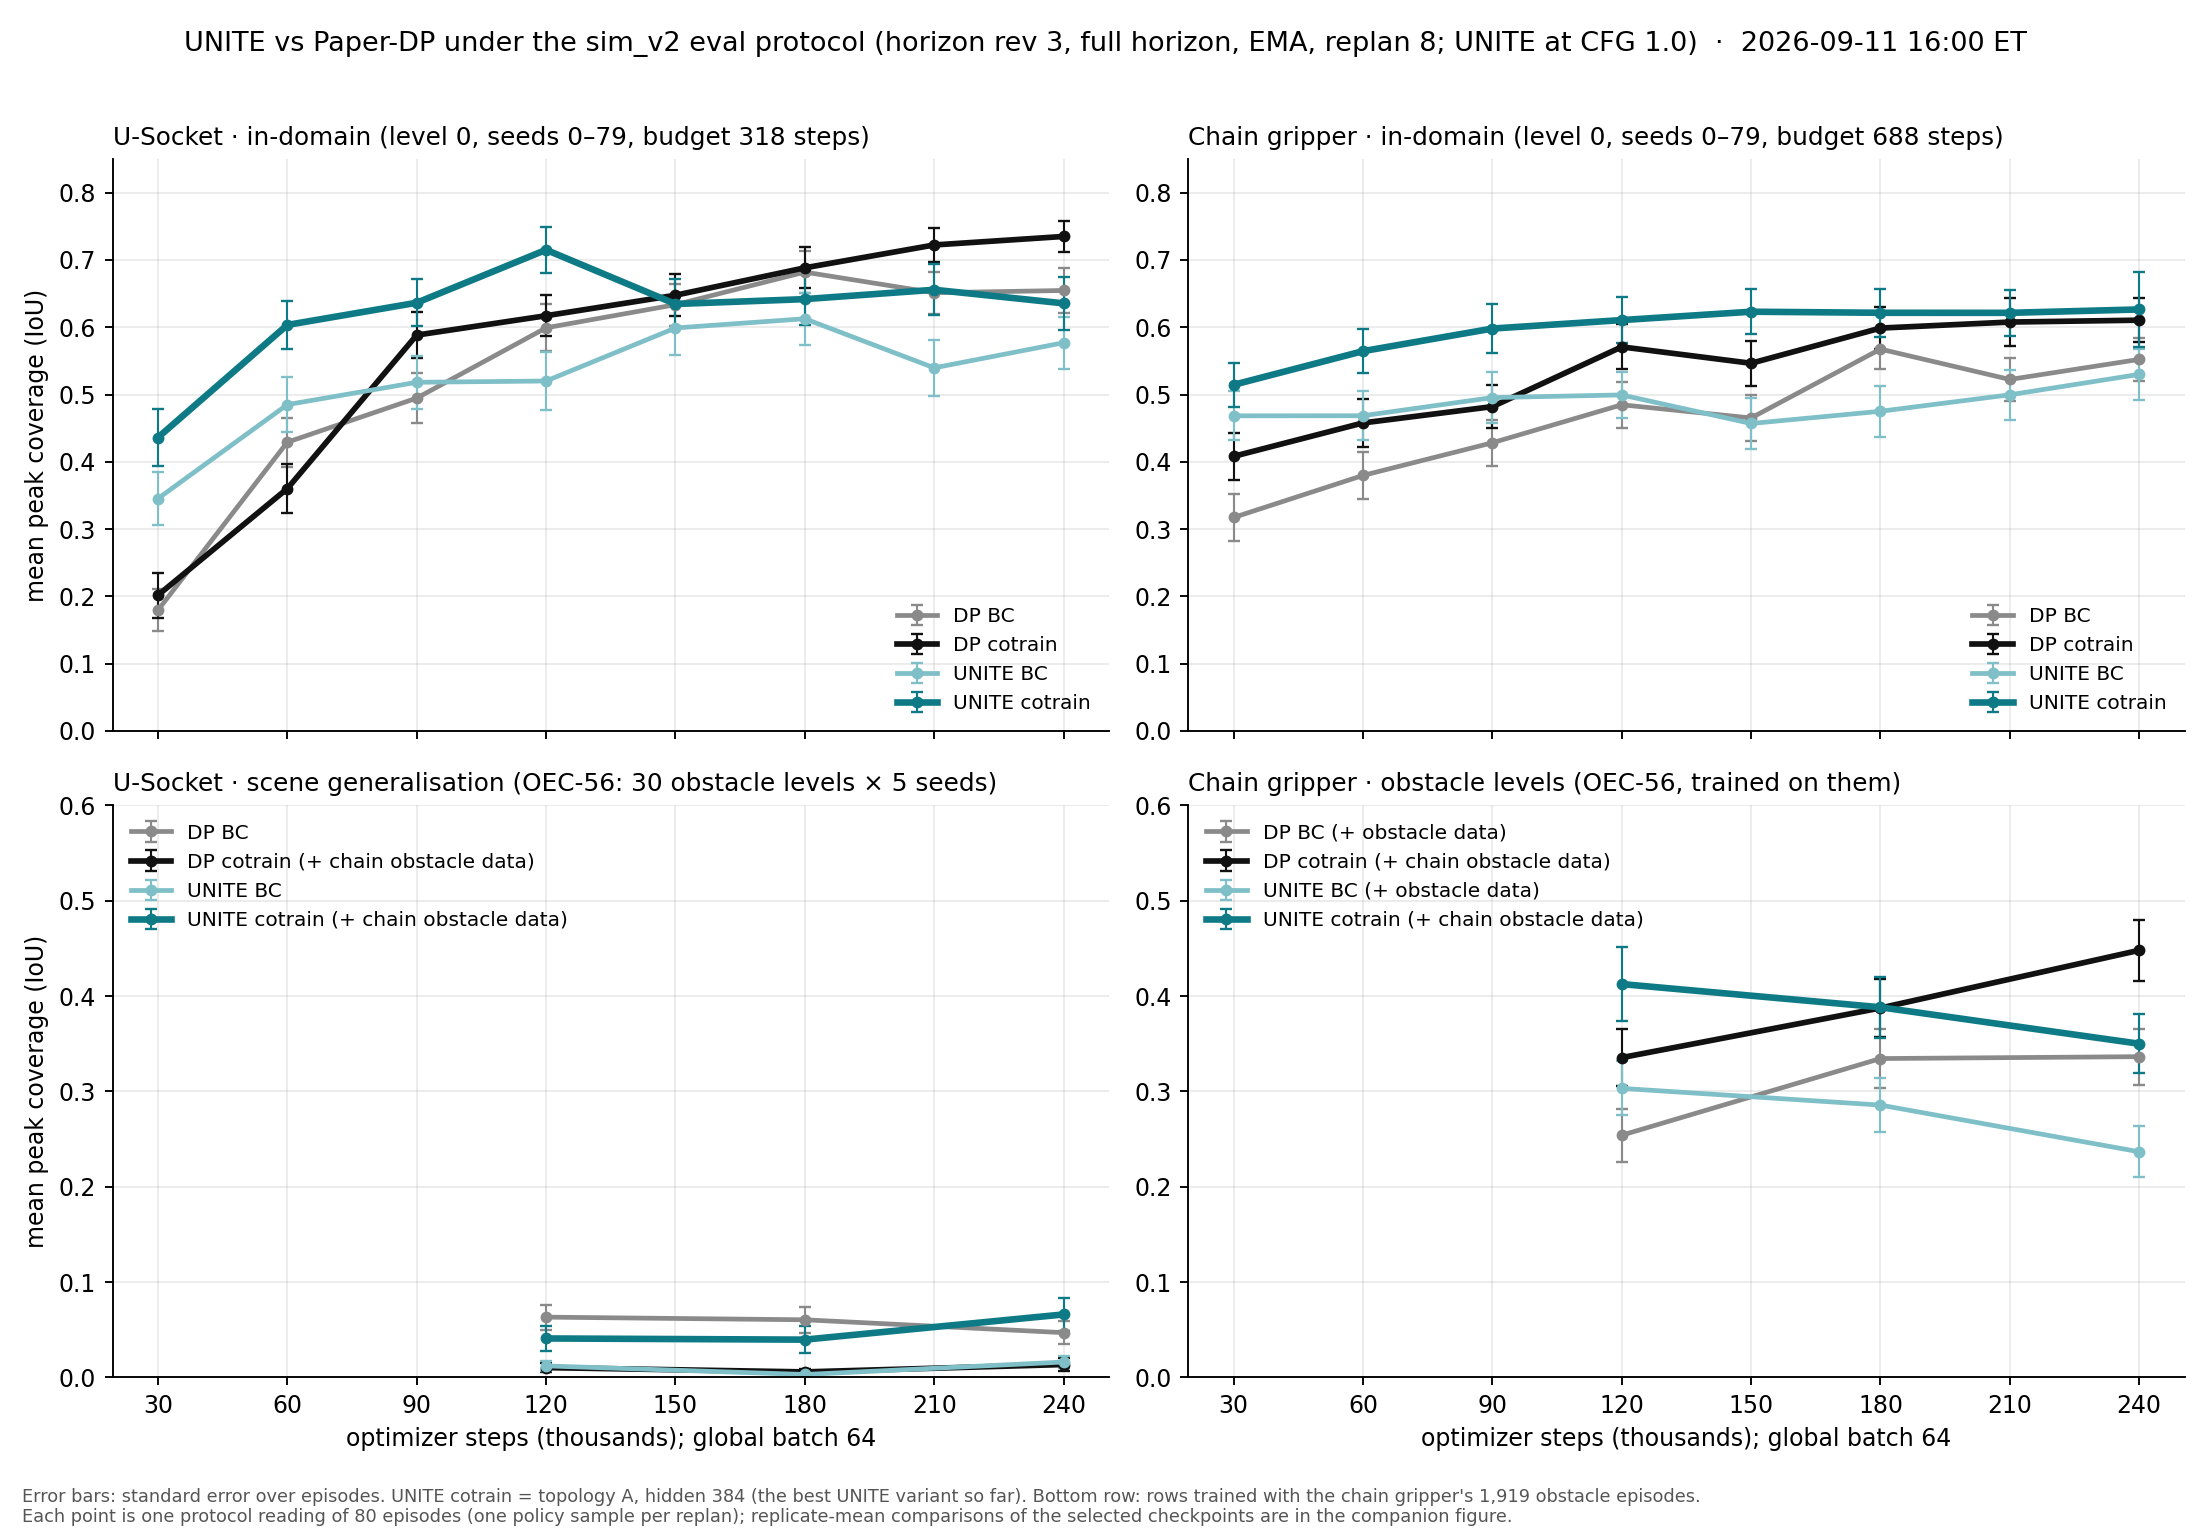
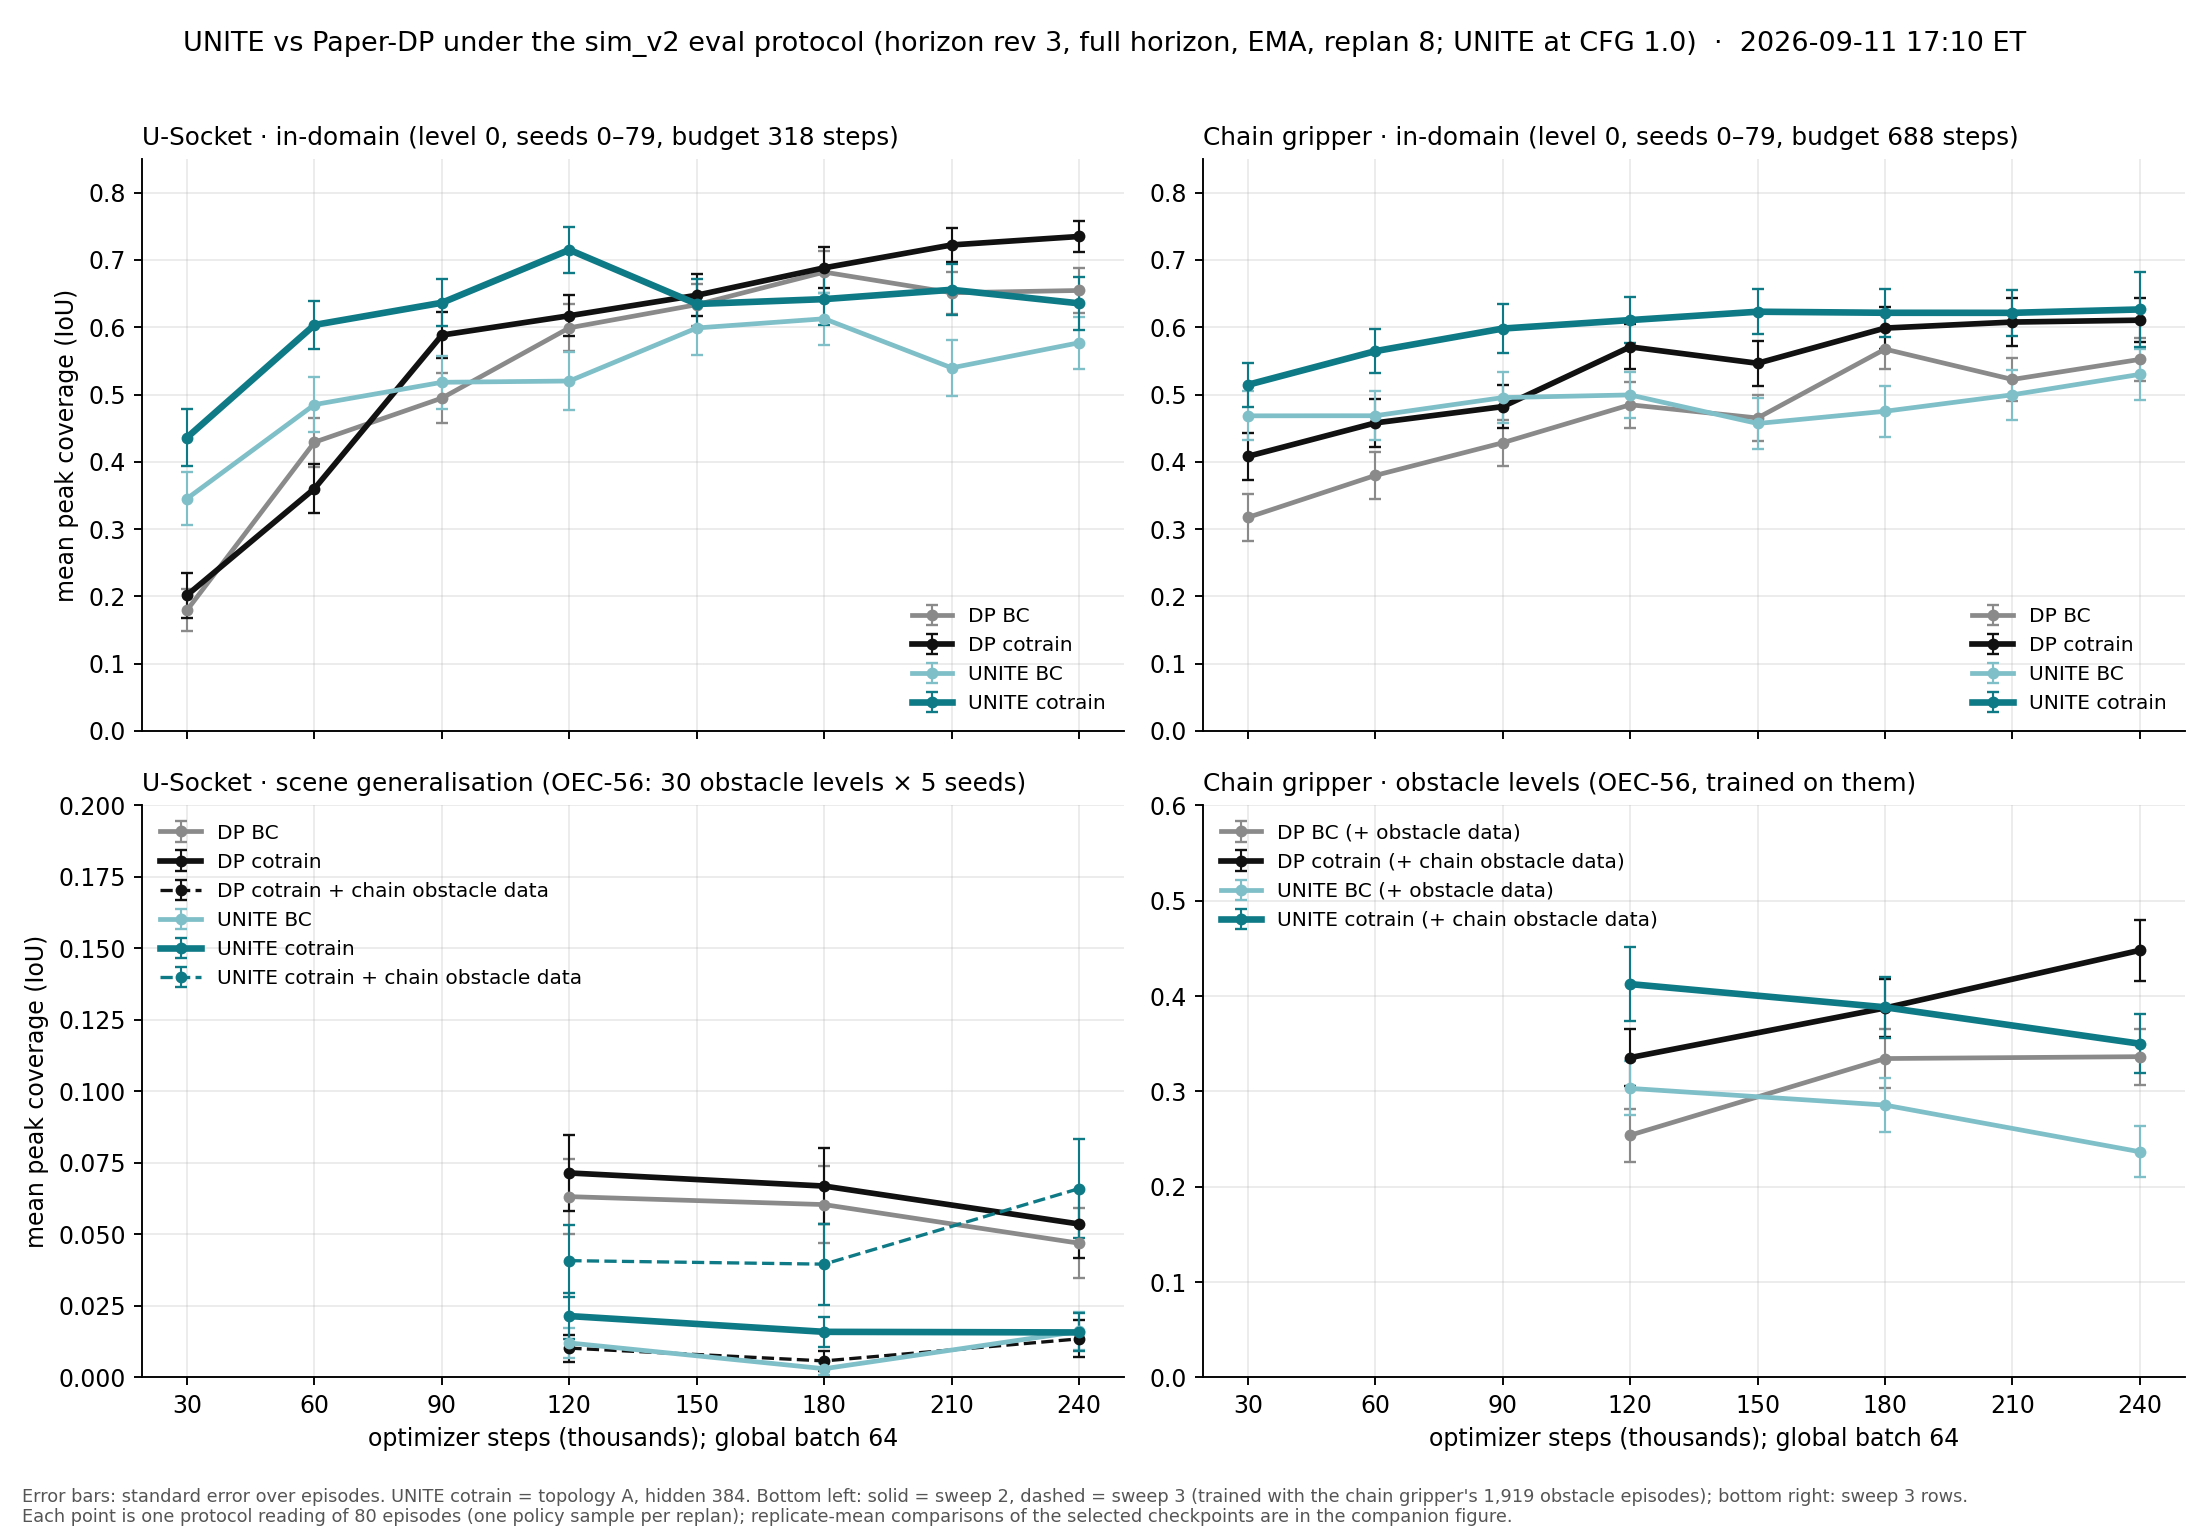
figures: curves regenerated with every row scored through 240k; scene-gen panel shows the same six rows as the replicate chart
Claude-Session: https://claude.ai/code/session_013EqNns33pX983azhohZXX3

diff --git a/scripts/ice/cotrain/plot_protocol.py b/scripts/ice/cotrain/plot_protocol.py
@@ -62,7 +62,7 @@ def series(row, emb, level0=True):
 SIMPLE = {  # panel -> [(row, label, color, lw)]
     ("usocket", True):  [("dpus", "DP BC", "#8a8a8a", 2.0), ("dpct", "DP cotrain", "#111111", 2.4), ("uniteus", "UNITE BC", "#7fbfc8", 2.0), ("ctA", "UNITE cotrain", "#0e7a86", 2.8)],
     ("chain",   True):  [("dpch", "DP BC", "#8a8a8a", 2.0), ("dpct", "DP cotrain", "#111111", 2.4), ("unitech", "UNITE BC", "#7fbfc8", 2.0), ("ctA", "UNITE cotrain", "#0e7a86", 2.8)],
-    ("usocket", False): [("dpus", "DP BC", "#8a8a8a", 2.0), ("s3dpct", "DP cotrain (+ chain obstacle data)", "#111111", 2.4), ("uniteus", "UNITE BC", "#7fbfc8", 2.0), ("s3ctA", "UNITE cotrain (+ chain obstacle data)", "#0e7a86", 2.8)],
+    ("usocket", False): [("dpus", "DP BC", "#8a8a8a", 2.0), ("dpct", "DP cotrain", "#111111", 2.4), ("s3dpct", "DP cotrain + chain obstacle data", "#111111", 1.4), ("uniteus", "UNITE BC", "#7fbfc8", 2.0), ("ctA", "UNITE cotrain", "#0e7a86", 2.8), ("s3ctA", "UNITE cotrain + chain obstacle data", "#0e7a86", 1.4)],
     ("chain",   False): [("s3dpch", "DP BC (+ obstacle data)", "#8a8a8a", 2.0), ("s3dpct", "DP cotrain (+ chain obstacle data)", "#111111", 2.4), ("s3unitech", "UNITE BC (+ obstacle data)", "#7fbfc8", 2.0), ("s3ctA", "UNITE cotrain (+ chain obstacle data)", "#0e7a86", 2.8)],
 }
 fig, axes = plt.subplots(2, 2, figsize=(13, 9), sharex=True)
@@ -78,9 +78,10 @@ for ax, emb, level0, title in panels:
         if not xs:
             ax.plot([], [], color=color, lw=lw, label=label + " (not scored yet)")
             continue
-        ax.errorbar(xs, ys, yerr=es, color=color, lw=lw, marker="o", ms=4, capsize=2.5, elinewidth=0.9, label=label)
+        ls = "--" if (not level0 and emb == "usocket" and r.startswith("s3")) else "-"
+        ax.errorbar(xs, ys, yerr=es, color=color, lw=lw, ls=ls, marker="o", ms=4, capsize=2.5, elinewidth=0.9, label=label)
     ax.set_title(title, fontsize=10.5, loc="left")
-    ax.set_ylim(0, 0.85 if level0 else 0.6)
+    ax.set_ylim(0, 0.85 if level0 else (0.6 if emb == "chain" else 0.2))
     ax.set_xticks([x / 1000 for x in STEPS]); ax.grid(alpha=0.25); ax.set_axisbelow(True)
     ax.spines[["top", "right"]].set_visible(False)
     ax.legend(fontsize=8.5, loc="lower right" if level0 else "upper left", frameon=False)
@@ -89,7 +90,7 @@ for ax in axes[1]:
 for ax in axes[:, 0]:
     ax.set_ylabel("mean peak coverage (IoU)")
 fig.suptitle("UNITE vs Paper-DP under the sim_v2 eval protocol (horizon rev 3, full horizon, EMA, replan 8; UNITE at CFG 1.0)" + (f"  ·  {stamp}" if stamp else ""), fontsize=11.5)
-fig.text(0.01, 0.005, "Error bars: standard error over episodes. UNITE cotrain = topology A, hidden 384 (the best UNITE variant so far). Bottom row: rows trained with the chain gripper's 1,919 obstacle episodes.\n"
+fig.text(0.01, 0.005, "Error bars: standard error over episodes. UNITE cotrain = topology A, hidden 384. Bottom left: solid = sweep 2, dashed = sweep 3 (trained with the chain gripper's 1,919 obstacle episodes); bottom right: sweep 3 rows.\n"
          "Each point is one protocol reading of 80 episodes (one policy sample per replan); replicate-mean comparisons of the selected checkpoints are in the companion figure.", fontsize=7.5, color="#555")
 fig.tight_layout(rect=(0, 0.035, 1, 0.97))
 fig.savefig(out, dpi=170)
